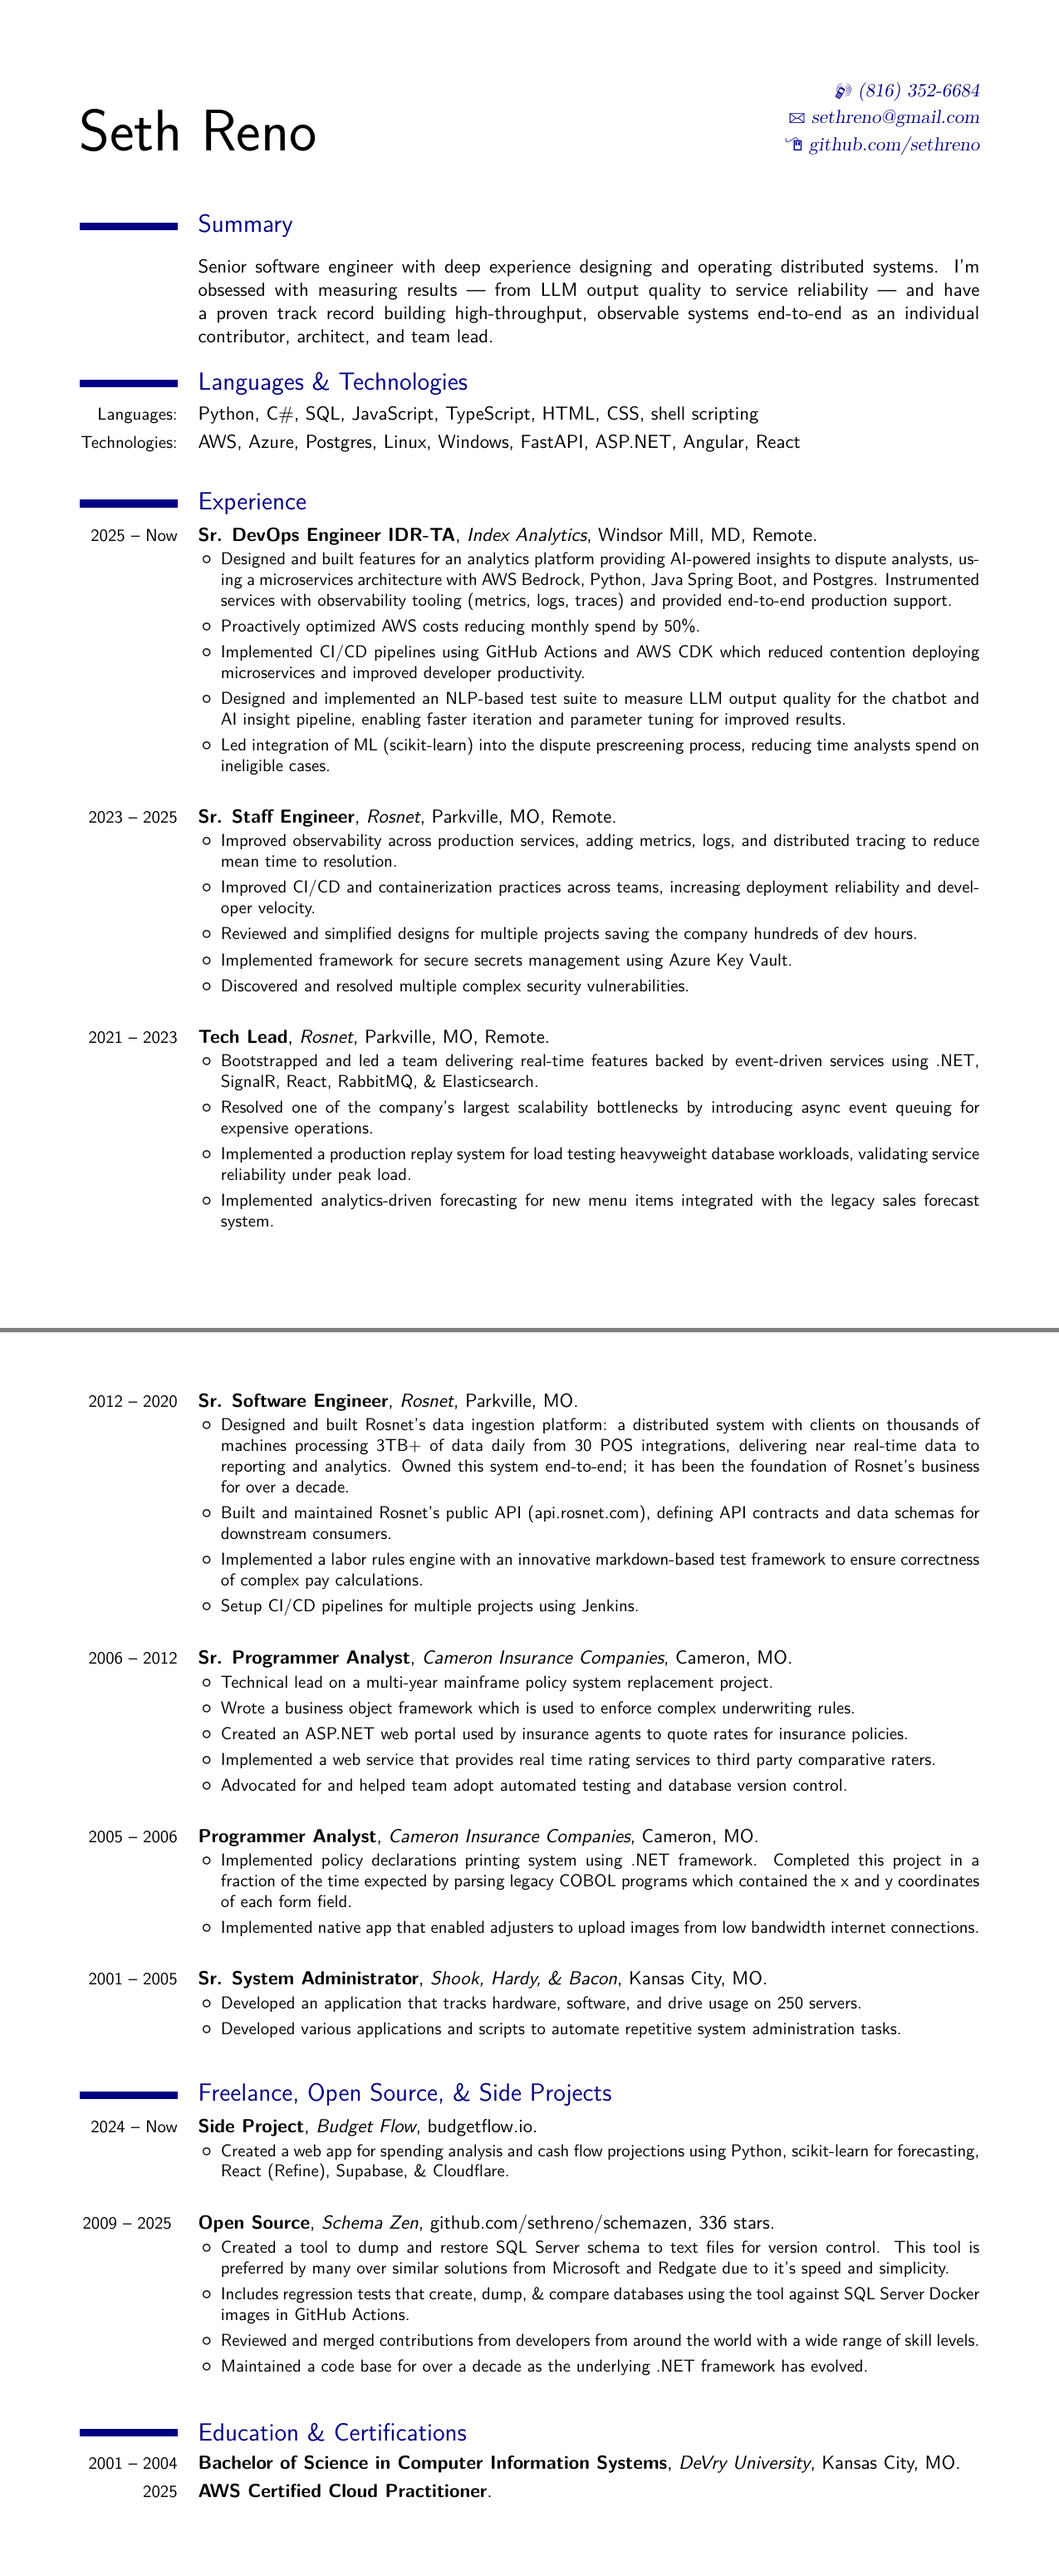
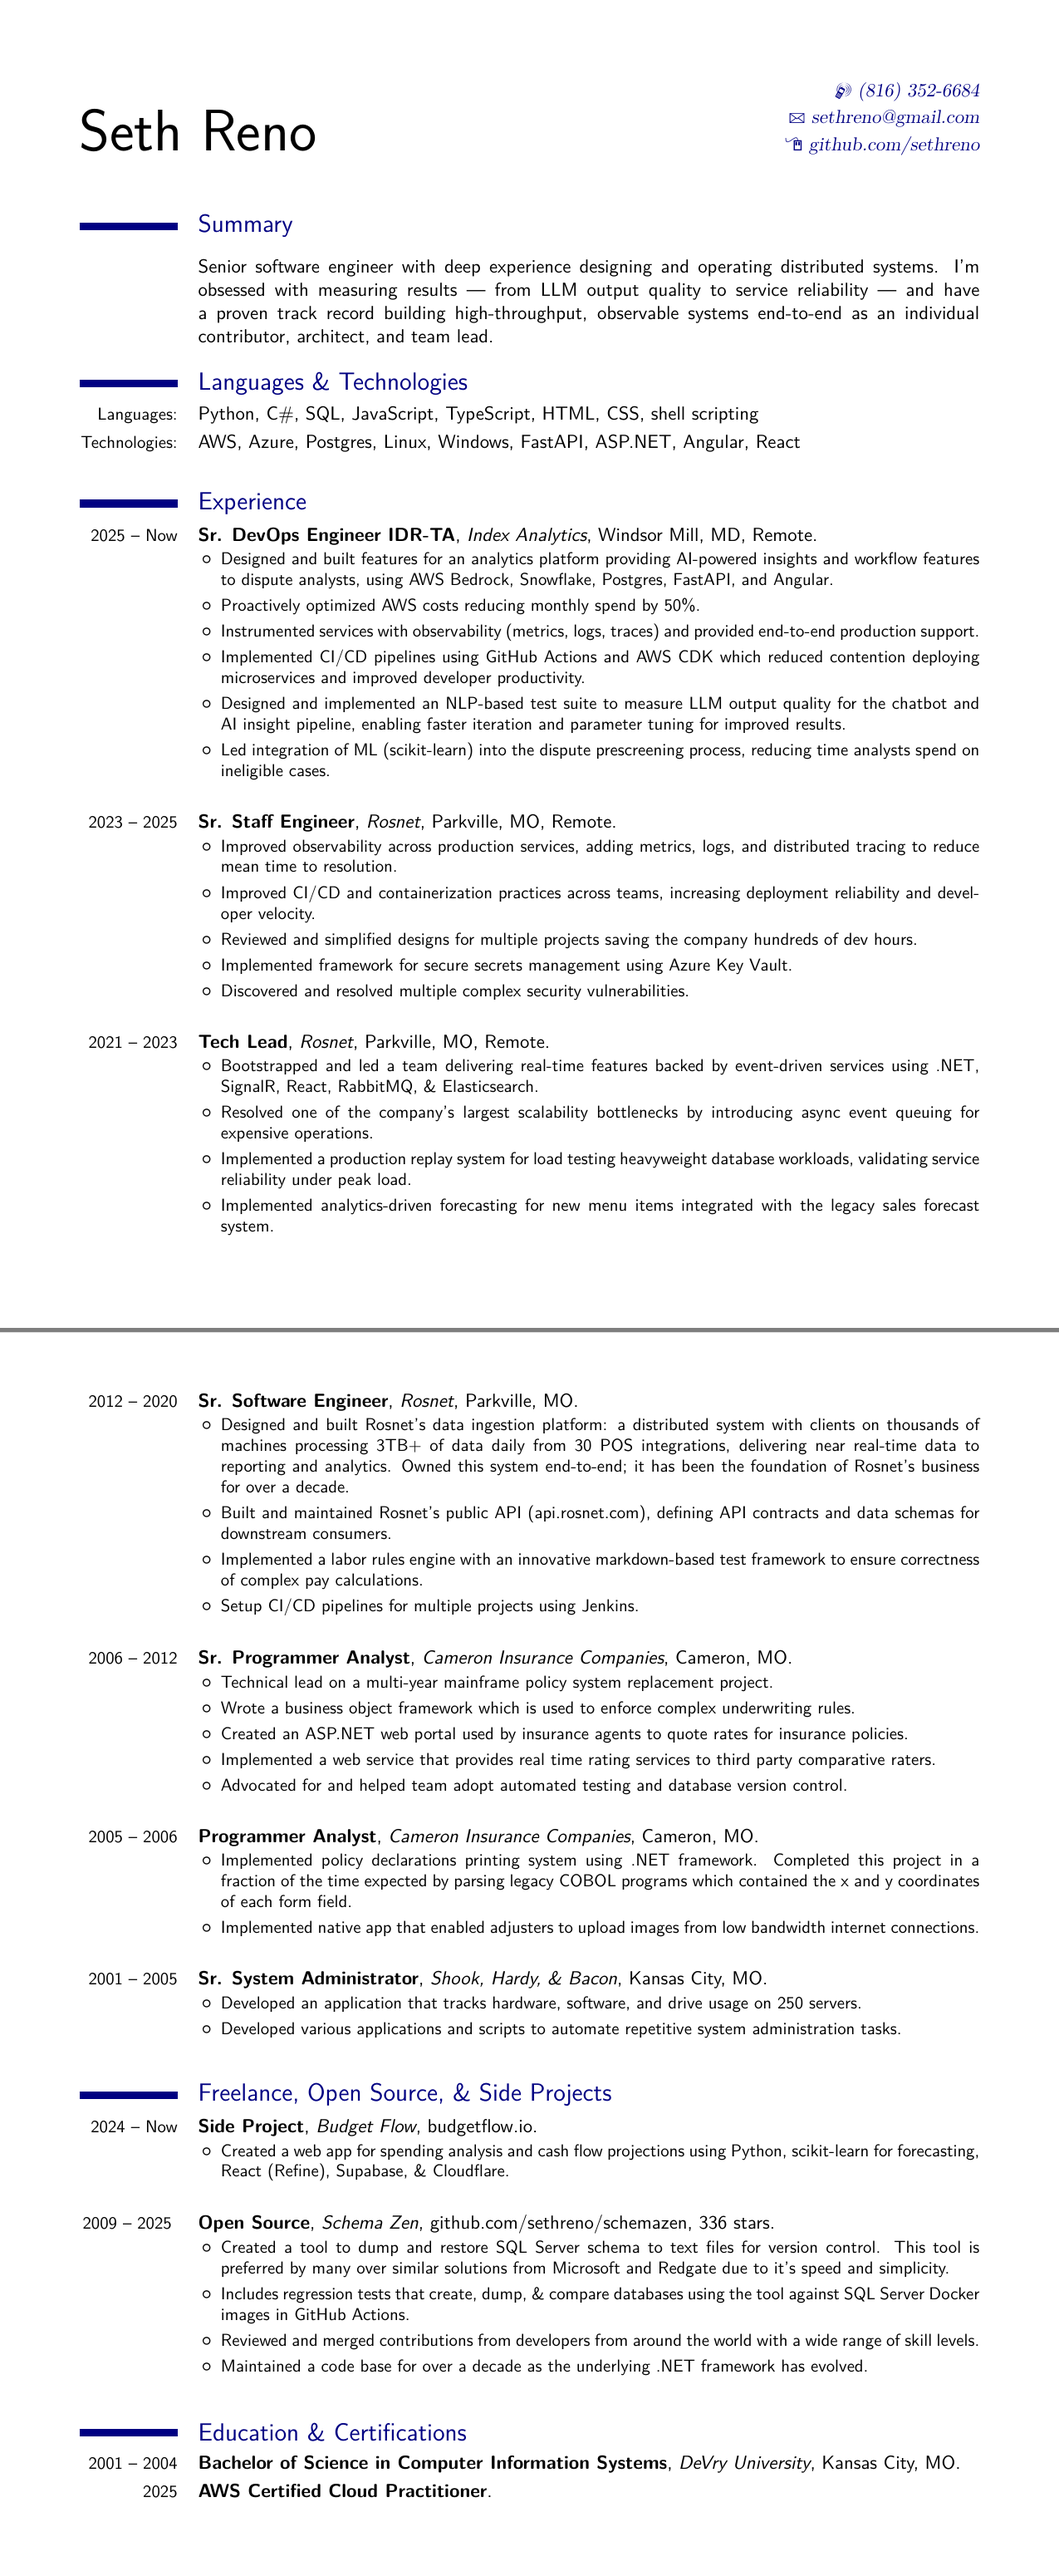
Tweak index experience

Changed region(s): [[0.1835, 0.2168, 0.9176, 0.4955], [0.7953, 0.4645, 0.8259, 0.4955]]

diff --git a/src/resume.tex b/src/resume.tex
@@ -67,13 +67,14 @@ architect, and team lead.
 {2025 -- Now} {Sr. DevOps Engineer IDR-TA}{Index Analytics}{Windsor Mill, MD}{Remote}{
 		\begin{itemize}
 			\item
-				Designed and built features for an analytics platform providing AI-powered
-				insights to dispute analysts, using a microservices architecture with AWS
-				Bedrock, Python, Java Spring Boot, and Postgres. Instrumented services with
-				observability tooling (metrics, logs, traces) and provided end-to-end
-				production support.
+				Designed and built features for an analytics platform providing
+				AI-powered insights and workflow features to dispute analysts,
+				using AWS Bedrock, Snowflake, Postgres, FastAPI, and Angular.
 			\item
 				Proactively optimized AWS costs reducing monthly spend by 50\%.
+			\item
+				Instrumented services with observability (metrics, logs,
+				traces) and provided end-to-end production support.
 			\item
 				Implemented CI/CD pipelines using GitHub Actions and AWS CDK
 				which reduced contention deploying microservices and improved
